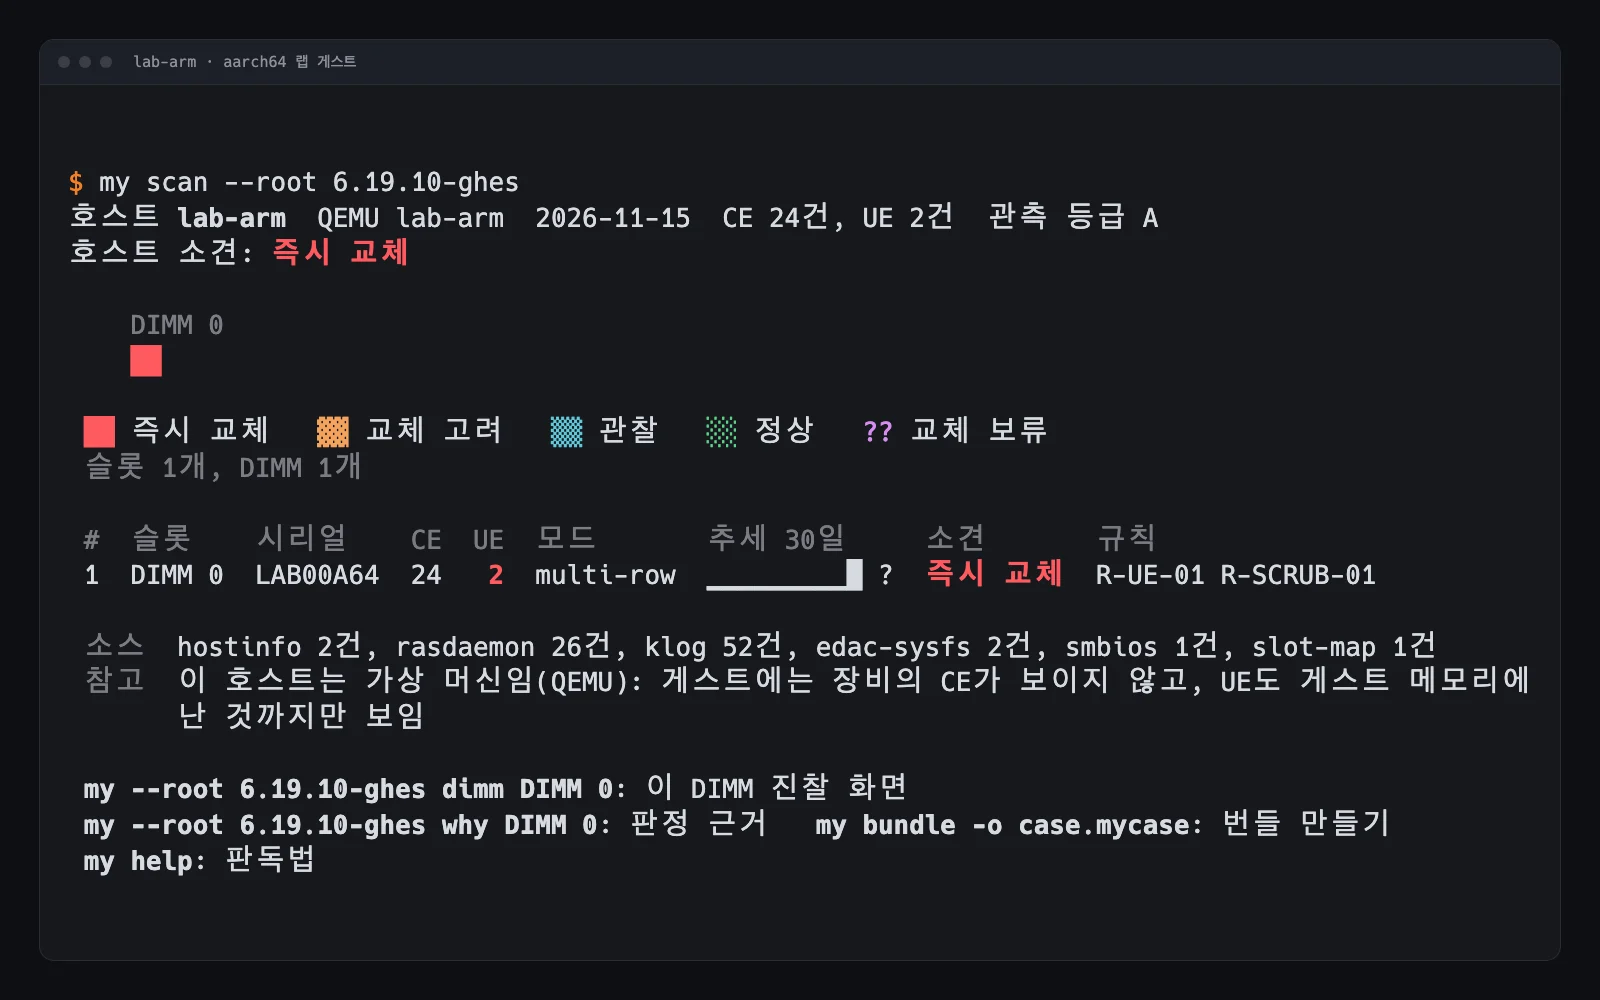
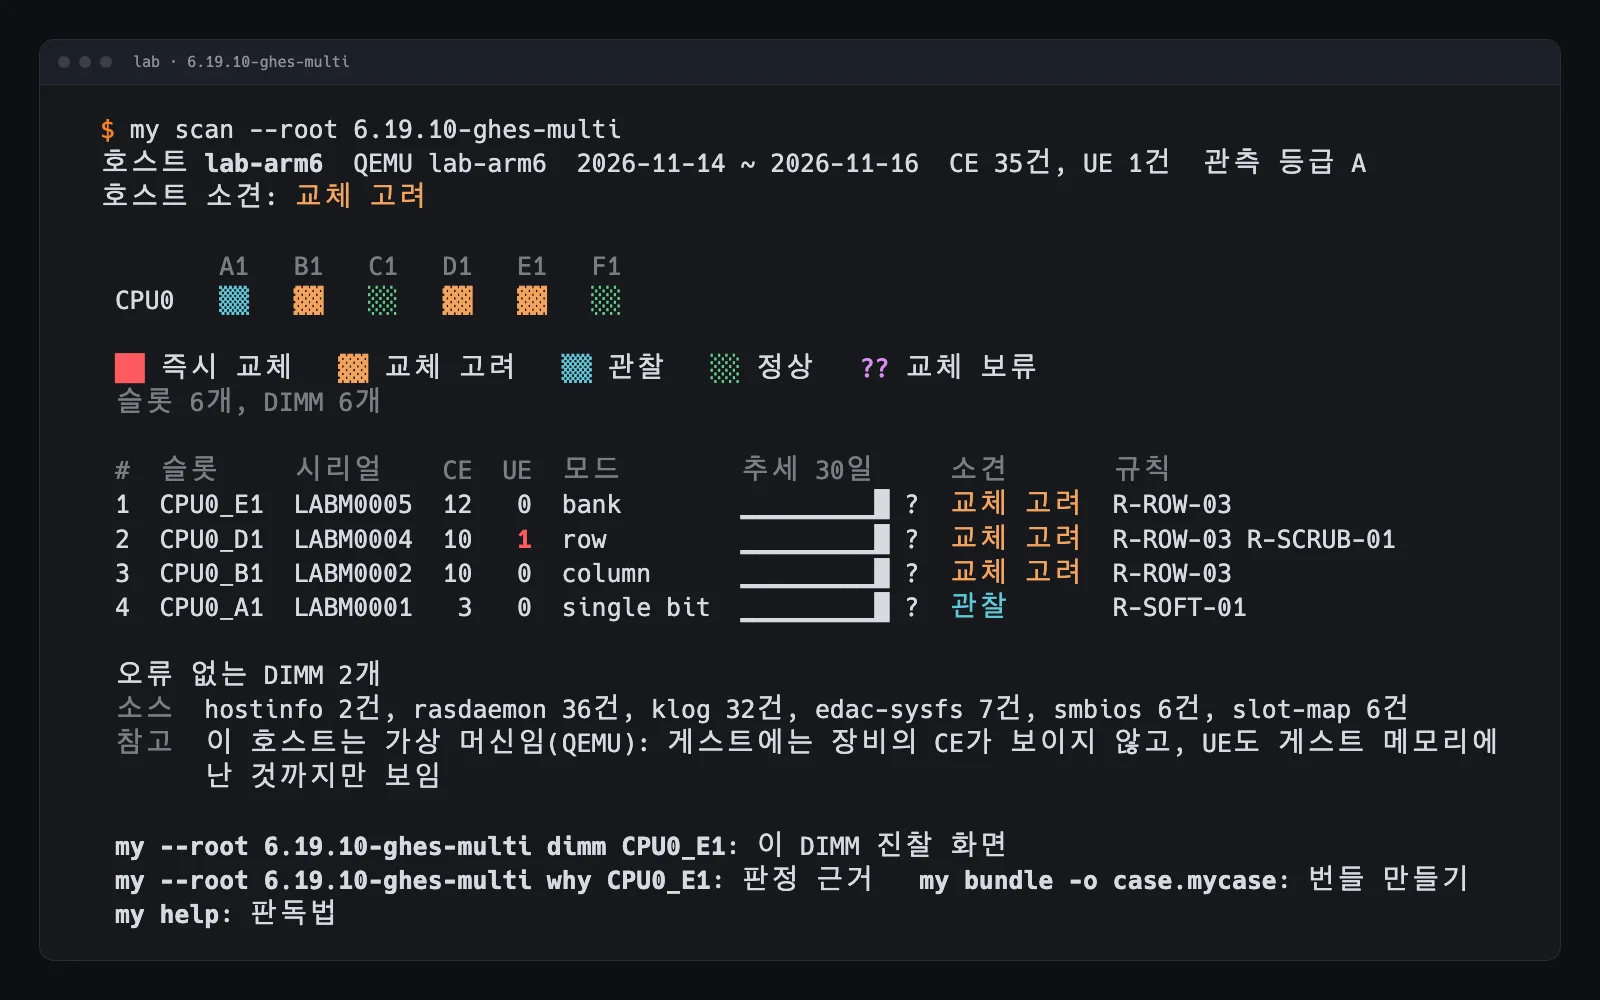
Show the six-DIMM lab capture in the figures
The figures now come from testdata/real/6.19.10-ghes-multi of the MemorY
repository: an aarch64 guest with six DIMMs, booted three times a day
apart, with a row, a column, a bank and a single cell fault on four DIMMs
(35 corrected errors, 1 uncorrected). The slot map shows the four findings
side by side; the topology bars, the address map and the verdict card show
the column fault of CPU0_B1; the timeline adds the kernel messages of the
three boots. The lead sentence and the alt texts say so. The lab section
counts 12 captures and 12 fixes.

diff --git a/site/index.html b/site/index.html
@@ -140,7 +140,7 @@
       <p class="sec-tag">그림</p>
       <div class="sec-body">
         <h2 id="figures-h">그림으로 보여줍니다</h2>
-        <p class="sec-lead">그림마다 답하는 질문이 하나씩 있습니다. 아래 화면은 랩의 aarch64 게스트에 펌웨어 오류 레코드로 CE&nbsp;24건, UE&nbsp;2건을 넣고 MemorY로 읽은 결과입니다. 타임라인은 같은 게스트의 다음 부팅까지 한 케이스로 묶었습니다.</p>
+        <p class="sec-lead">그림마다 답하는 질문이 하나씩 있습니다. 아래 화면은 랩의 aarch64 게스트를 MemorY로 읽은 결과입니다. 게스트에 DIMM&nbsp;6개를 달고 하루 간격으로 세 번 부팅하면서 펌웨어 오류 레코드로 CE&nbsp;35건, UE&nbsp;1건을 넣었습니다. DIMM&nbsp;4개에 row, column, bank, 셀 하나의 고장을 하나씩 넣었고 2개는 비워 두었습니다. 토폴로지 막대, 주소 맵, 판정 카드는 column 고장을 넣은 CPU0_B1입니다. 타임라인에는 세 번의 부팅이 남긴 커널 로그를 더했습니다.</p>
       </div>
     </div>
 
@@ -149,7 +149,7 @@
         <figure class="capture" data-capture="slot-map">
           <div class="capture-frame">
             <svg class="capture-skel" viewBox="0 0 160 100" preserveAspectRatio="xMidYMid meet" aria-hidden="true" focusable="false"><rect class="s1" x="16" y="15" width="52" height="3.5" rx="1"/><rect class="s1" x="16" y="34.5" width="12" height="4" rx="1"/><rect class="s1" x="36" y="30" width="10" height="13" rx="1.6"/><rect class="s1" x="49.6" y="30" width="10" height="13" rx="1.6"/><rect class="s2" x="63.2" y="30" width="10" height="13" rx="1.6"/><rect class="s1" x="76.8" y="30" width="10" height="13" rx="1.6"/><rect class="s1" x="90.4" y="30" width="10" height="13" rx="1.6"/><rect class="s1" x="104" y="30" width="10" height="13" rx="1.6"/><rect class="s1" x="117.6" y="30" width="10" height="13" rx="1.6"/><rect class="s1" x="131.2" y="30" width="10" height="13" rx="1.6"/><rect class="s1" x="16" y="54.5" width="12" height="4" rx="1"/><rect class="s1" x="36" y="50" width="10" height="13" rx="1.6"/><rect class="s1" x="49.6" y="50" width="10" height="13" rx="1.6"/><rect class="s1" x="63.2" y="50" width="10" height="13" rx="1.6"/><rect class="s1" x="76.8" y="50" width="10" height="13" rx="1.6"/><rect class="s1" x="90.4" y="50" width="10" height="13" rx="1.6"/><rect class="s1" x="104" y="50" width="10" height="13" rx="1.6"/><rect class="s1" x="117.6" y="50" width="10" height="13" rx="1.6"/><rect class="s1" x="131.2" y="50" width="10" height="13" rx="1.6"/><rect class="s1" x="16" y="76" width="128" height="3" rx="1"/><rect class="s1" x="16" y="83" width="96" height="3" rx="1"/></svg>
-            <img src="/captures/slot-map.webp" alt="슬롯 맵 화면" width="1600" height="1000" loading="lazy" decoding="async">
+            <img src="/captures/slot-map.webp" alt="my scan 화면. CPU0 슬롯 6개 가운데 B1, D1, E1은 교체 고려, A1은 관찰, C1과 F1은 정상입니다. 표에는 DIMM 4개의 CE, UE, 고장 모드가 있습니다." width="1600" height="1000" loading="lazy" decoding="async">
             <span class="capture-wait">캡처 준비 중</span>
           </div>
           <figcaption>
@@ -164,7 +164,7 @@
         <figure class="capture" data-capture="topology-bars">
           <div class="capture-frame">
             <svg class="capture-skel" viewBox="0 0 160 100" preserveAspectRatio="xMidYMid meet" aria-hidden="true" focusable="false"><rect class="s1" x="16" y="24.5" width="13" height="4" rx="1"/><rect class="s2" x="36" y="22" width="112" height="9" rx="1.4"/><rect class="s1" x="16" y="40.5" width="13" height="4" rx="1"/><rect class="s2" x="36" y="38" width="104" height="9" rx="1.4"/><rect class="s1" x="141.5" y="38" width="2.5" height="9" rx="1.4"/><rect class="s1" x="16" y="56.5" width="13" height="4" rx="1"/><rect class="s2" x="36" y="54" width="93" height="9" rx="1.4"/><rect class="s1" x="130.5" y="54" width="13.5" height="9" rx="1.4"/><rect class="s1" x="16" y="72.5" width="13" height="4" rx="1"/><rect class="s2" x="36" y="70" width="76" height="9" rx="1.4"/><rect class="s1" x="113.5" y="70" width="30.5" height="9" rx="1.4"/></svg>
-            <img src="/captures/topology-bars.webp" alt="토폴로지 막대 화면" width="1600" height="1000" loading="lazy" decoding="async">
+            <img src="/captures/topology-bars.webp" alt="my dimm CPU0_B1 화면. 오류 10건이 모두 rank1, dev5, bg0 bank3에 있고 row 단계에서 row 9개로 나뉩니다." width="1600" height="1000" loading="lazy" decoding="async">
             <span class="capture-wait">캡처 준비 중</span>
           </div>
           <figcaption>
@@ -179,7 +179,7 @@
         <figure class="capture" data-capture="address-map">
           <div class="capture-frame">
             <svg class="capture-skel" viewBox="0 0 160 100" preserveAspectRatio="xMidYMid meet" aria-hidden="true" focusable="false"><rect x="18" y="12" width="126" height="78" fill="url(#dots6)"/><rect class="s2" x="18.6" y="48.6" width="4.8" height="4.8" rx="1"/><rect class="s2" x="30.6" y="48.6" width="4.8" height="4.8" rx="1"/><rect class="s2" x="36.6" y="48.6" width="4.8" height="4.8" rx="1"/><rect class="s2" x="54.6" y="48.6" width="4.8" height="4.8" rx="1"/><rect class="s2" x="66.6" y="48.6" width="4.8" height="4.8" rx="1"/><rect class="s2" x="78.6" y="48.6" width="4.8" height="4.8" rx="1"/><rect class="s2" x="84.6" y="48.6" width="4.8" height="4.8" rx="1"/><rect class="s2" x="102.6" y="48.6" width="4.8" height="4.8" rx="1"/><rect class="s2" x="120.6" y="48.6" width="4.8" height="4.8" rx="1"/><rect class="s1" x="36.6" y="54.6" width="4.8" height="4.8" rx="1"/><rect class="s1" x="102.6" y="54.6" width="4.8" height="4.8" rx="1"/></svg>
-            <img src="/captures/address-map.webp" alt="주소 맵 화면" width="1600" height="1000" loading="lazy" decoding="async">
+            <img src="/captures/address-map.webp" alt="my map CPU0_B1 화면. rank1 dev5 bg0 bank3의 row와 column 격자에서 오류가 난 칸이 column 0x1c8에 세로로 늘어서 있습니다." width="1600" height="1000" loading="lazy" decoding="async">
             <span class="capture-wait">캡처 준비 중</span>
           </div>
           <figcaption>
@@ -201,7 +201,7 @@
         <figure class="capture" data-capture="timeline">
           <div class="capture-frame">
             <svg class="capture-skel" viewBox="0 0 160 100" preserveAspectRatio="xMidYMid meet" aria-hidden="true" focusable="false"><rect class="s1" x="16" y="70" width="4" height="2" rx="0.8"/><rect class="s1" x="21.9" y="70" width="4" height="2" rx="0.8"/><rect class="s1" x="27.8" y="69" width="4" height="3" rx="0.8"/><rect class="s1" x="33.7" y="70" width="4" height="2" rx="0.8"/><rect class="s1" x="39.6" y="69" width="4" height="3" rx="0.8"/><rect class="s1" x="45.5" y="68" width="4" height="4" rx="0.8"/><rect class="s1" x="51.4" y="69" width="4" height="3" rx="0.8"/><rect class="s1" x="57.3" y="67" width="4" height="5" rx="0.8"/><rect class="s1" x="63.2" y="68" width="4" height="4" rx="0.8"/><rect class="s1" x="69.1" y="66" width="4" height="6" rx="0.8"/><rect class="s1" x="75" y="67" width="4" height="5" rx="0.8"/><rect class="s1" x="80.9" y="65" width="4" height="7" rx="0.8"/><rect class="s1" x="86.8" y="64" width="4" height="8" rx="0.8"/><rect class="s1" x="92.7" y="62" width="4" height="10" rx="0.8"/><rect class="s1" x="98.6" y="63" width="4" height="9" rx="0.8"/><rect class="s1" x="104.5" y="60" width="4" height="12" rx="0.8"/><rect class="s1" x="110.4" y="58" width="4" height="14" rx="0.8"/><rect class="s2" x="116.3" y="56" width="4" height="16" rx="0.8"/><rect class="s2" x="122.2" y="53" width="4" height="19" rx="0.8"/><rect class="s2" x="128.1" y="49" width="4" height="23" rx="0.8"/><rect class="s2" x="134" y="45" width="4" height="27" rx="0.8"/><rect class="s2" x="139.9" y="40" width="4" height="32" rx="0.8"/><rect class="s2" x="16" y="73.5" width="128" height="0.8" rx="0"/><rect class="s2" x="51" y="22" width="0.8" height="50" rx="0"/><rect class="s2" x="49.4" y="18" width="4" height="4" rx="1"/><rect class="s2" x="93" y="22" width="0.8" height="50" rx="0"/><rect class="s2" x="91.4" y="18" width="4" height="4" rx="1"/><rect class="s2" x="122" y="22" width="0.8" height="50" rx="0"/><rect class="s2" x="120.4" y="18" width="4" height="4" rx="1"/><rect class="s1" x="16" y="80" width="20" height="3" rx="1"/><rect class="s1" x="70" y="80" width="20" height="3" rx="1"/><rect class="s1" x="124" y="80" width="20" height="3" rx="1"/></svg>
-            <img src="/captures/timeline.webp" alt="타임라인 화면" width="1600" height="1000" loading="lazy" decoding="async">
+            <img src="/captures/timeline.webp" alt="my open two.mycase timeline 화면. 2026-11-14부터 2026-11-16까지 DIMM 4개의 일별 CE 아래에 재부팅 2회와 CPU0_D1의 UE, page offline이 있습니다." width="1600" height="1000" loading="lazy" decoding="async">
             <span class="capture-wait">캡처 준비 중</span>
           </div>
           <figcaption>
@@ -216,7 +216,7 @@
         <figure class="capture" data-capture="verdict-card">
           <div class="capture-frame">
             <svg class="capture-skel" viewBox="0 0 160 100" preserveAspectRatio="xMidYMid meet" aria-hidden="true" focusable="false"><rect class="o1" x="32" y="14" width="96" height="72" rx="4"/><rect class="s2" x="40" y="22" width="30" height="8" rx="2"/><rect class="s1" x="76" y="24.5" width="22" height="3" rx="1"/><rect class="s1" x="40" y="38" width="80" height="3" rx="1"/><rect class="s1" x="40" y="45" width="68" height="3" rx="1"/><rect class="s1" x="40" y="52" width="74" height="3" rx="1"/><rect class="s2" x="40" y="60.5" width="80" height="0.6" rx="0"/><rect class="s1" x="40" y="67" width="58" height="3" rx="1"/><rect class="s1" x="40" y="74" width="46" height="3" rx="1"/></svg>
-            <img src="/captures/verdict-card.webp" alt="판정 카드 화면" width="1600" height="1000" loading="lazy" decoding="async">
+            <img src="/captures/verdict-card.webp" alt="my why CPU0_B1 화면. 교체 고려 판정과 규칙 R-ROW-03, 반례, 부족한 데이터, 신뢰도 계산이 적혀 있습니다." width="1600" height="1000" loading="lazy" decoding="async">
             <span class="capture-wait">캡처 준비 중</span>
           </div>
           <figcaption>
@@ -231,7 +231,7 @@
         <figure class="capture" data-capture="report">
           <div class="capture-frame">
             <svg class="capture-skel" viewBox="0 0 160 100" preserveAspectRatio="xMidYMid meet" aria-hidden="true" focusable="false"><rect class="o1" x="48" y="8" width="64" height="84" rx="3"/><rect class="s2" x="55" y="15" width="28" height="4" rx="1"/><rect class="s1" x="55" y="22" width="42" height="2.4" rx="1"/><rect class="s1" x="55" y="30" width="6.4" height="6" rx="1"/><rect class="s1" x="63.6" y="30" width="6.4" height="6" rx="1"/><rect class="s2" x="72.2" y="30" width="6.4" height="6" rx="1"/><rect class="s1" x="80.8" y="30" width="6.4" height="6" rx="1"/><rect class="s1" x="89.4" y="30" width="6.4" height="6" rx="1"/><rect class="s1" x="98" y="30" width="6.4" height="6" rx="1"/><rect class="s1" x="55" y="38" width="6.4" height="6" rx="1"/><rect class="s1" x="63.6" y="38" width="6.4" height="6" rx="1"/><rect class="s1" x="72.2" y="38" width="6.4" height="6" rx="1"/><rect class="s1" x="80.8" y="38" width="6.4" height="6" rx="1"/><rect class="s1" x="89.4" y="38" width="6.4" height="6" rx="1"/><rect class="s1" x="98" y="38" width="6.4" height="6" rx="1"/><rect class="s1" x="55" y="63" width="4.6" height="3" rx="0.6"/><rect class="s1" x="61.4" y="62" width="4.6" height="4" rx="0.6"/><rect class="s1" x="67.8" y="63" width="4.6" height="3" rx="0.6"/><rect class="s1" x="74.2" y="61" width="4.6" height="5" rx="0.6"/><rect class="s1" x="80.6" y="60" width="4.6" height="6" rx="0.6"/><rect class="s1" x="87" y="58" width="4.6" height="8" rx="0.6"/><rect class="s1" x="93.4" y="56" width="4.6" height="10" rx="0.6"/><rect class="s1" x="99.8" y="53" width="4.6" height="13" rx="0.6"/><rect class="s1" x="55" y="72" width="50" height="2.4" rx="1"/><rect class="s1" x="55" y="77.5" width="40" height="2.4" rx="1"/><rect class="s1" x="55" y="83" width="46" height="2.4" rx="1"/></svg>
-            <img src="/captures/report.webp" alt="리포트 화면" width="1600" height="1000" loading="lazy" decoding="async">
+            <img src="/captures/report.webp" alt="my report로 만든 HTML 리포트의 요약. 호스트 lab-arm6의 소견은 교체 고려이고, 오류는 CE 35건, UE 1건입니다." width="1600" height="1000" loading="lazy" decoding="async">
             <span class="capture-wait">캡처 준비 중</span>
           </div>
           <figcaption>
@@ -249,9 +249,9 @@
     <p class="sec-tag">검증</p>
     <div class="sec-body">
       <h2 id="lab-h">실제 커널이 남긴 기록으로 시험합니다</h2>
-      <p>랩 서버의 Fedora VM(커널 7.3.0)과 그 안의 QEMU 게스트에 위치를 아는 메모리 오류를 넣고, 커널과 rasdaemon이 남긴 기록을 그대로 떠 왔습니다. 캡처는 11개입니다. x86_64 게스트의 머신 체크, CXL 메모리 장치의 오류, 페이지 offline, aarch64 게스트의 펌웨어 오류 레코드를 담았고, 커널은 7.3.0과 6.19.10, rasdaemon은 0.8.0과 1.0.0입니다.</p>
+      <p>랩 서버의 Fedora VM(커널 7.3.0)과 그 안의 QEMU 게스트에 위치를 아는 메모리 오류를 넣고, 커널과 rasdaemon이 남긴 기록을 그대로 떠 왔습니다. 캡처는 12개입니다. x86_64 게스트의 머신 체크, CXL 메모리 장치의 오류, 페이지 offline, aarch64 게스트의 펌웨어 오류 레코드를 담았고, 커널은 7.3.0과 6.19.10, rasdaemon은 0.8.0과 1.0.0입니다.</p>
       <p>캡처는 저장소의 <code>testdata/real/</code>에 있습니다. 테스트가 매번 넣은 오류와 MemorY가 센 오류를 대조하고, <code>my verify</code>로 직접 대조할 수도 있습니다.</p>
-      <p>캡처를 읽으면서 찾은 결함을 PR 11건으로 고쳤습니다. 두 가지 예입니다.</p>
+      <p>캡처를 읽으면서 찾은 결함을 PR 12건으로 고쳤습니다. 두 가지 예입니다.</p>
       <ol class="gaps">
         <li><span>dmidecode 3.7은 용량을 <code>16 GiB</code>로 적습니다. 이 표기를 읽지 못해 꽂힌 DIMM을 하나도 찾지 못했습니다.</span></li>
         <li><span>rasdaemon이 뜬 뒤 시계가 10초 뒤로 돌아간 부팅에서, rasdaemon의 시각이 커널 시각보다 10초 앞섰습니다. 같은 오류를 두 번 세어, 넣은 CE&nbsp;10건과 UE&nbsp;1건을 CE&nbsp;18건과 UE&nbsp;2건으로 표시했습니다. 지금은 같은 부팅의 커널 로그 시각에 맞춰 한 번만 셉니다.</span></li>
